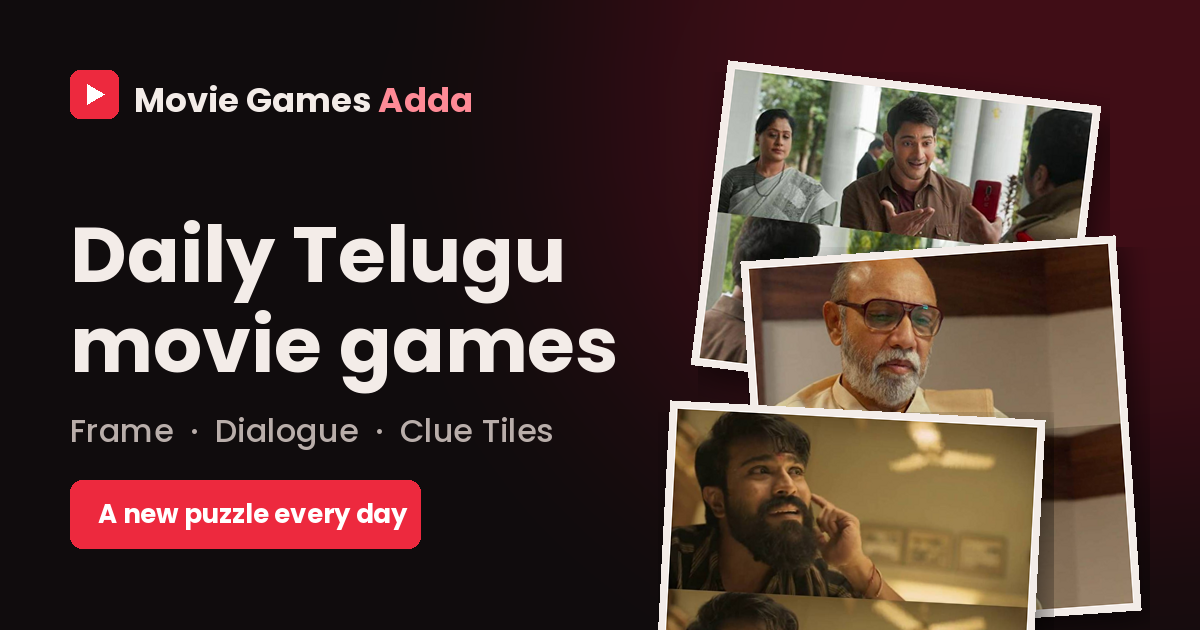
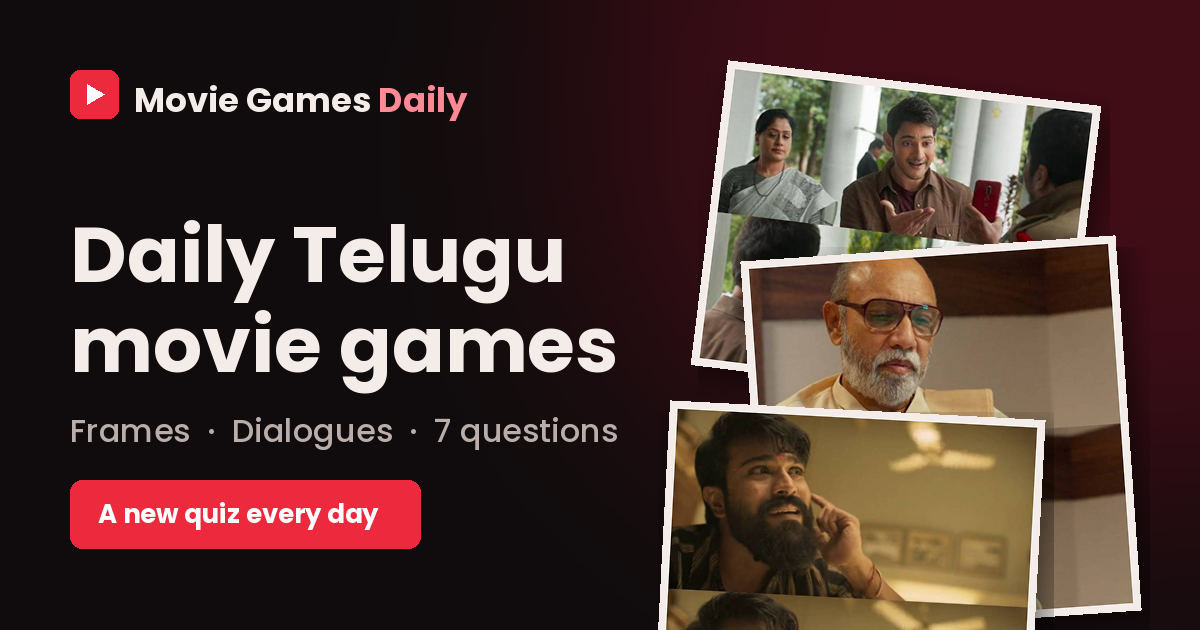
Rename the site to Movie Games Daily
Brand, titles, meta tags, share text, info pages and the social preview
image now say Movie Games Daily.

Claude-Session: https://claude.ai/code/session_01NDAnUyuq5Up1JZs5fnv8MC

Changed region(s): [[0.1233, 0.6635, 0.5242, 0.7238], [0.1542, 0.7841, 0.3392, 0.8444], [0.3083, 0.1206, 0.4008, 0.181]]

diff --git a/site.js b/site.js
@@ -6,7 +6,7 @@ import { fileURLToPath } from 'node:url';
 import { istDate } from './daily.js';
 
 const root = dirname(fileURLToPath(import.meta.url));
-const SITE = 'Movie Games Adda';
+const SITE = 'Movie Games Daily';
 const INSTAGRAM = 'https://www.instagram.com/vamshicreatess';
 const CREDIT = 'https://vamshicreates.tech';
 
@@ -57,7 +57,7 @@ export const header = (current = '') => `<a class="skip" href="#main">Skip to co
     <div class="shell header-inner">
       <a class="brand" href="/" aria-label="${SITE} home">
         <img src="/logo.svg" width="35" height="35" alt="">
-        <span>Movie Games<span class="brand-accent"> Adda</span></span>
+        <span>Movie Games<span class="brand-accent"> Daily</span></span>
       </a>
       <nav aria-label="Main navigation">
         <a href="/play" class="nav-link daily-link"${current === 'play' ? ' aria-current="page"' : ''}>Daily</a>
@@ -69,7 +69,7 @@ export const header = (current = '') => `<a class="skip" href="#main">Skip to co
 
 export const footer = () => `<footer class="shell site-footer site-footer-wide">
     <div class="footer-top">
-      <a class="brand footer-brand" href="/"><img src="/logo.svg" width="26" height="26" alt=""><span>Movie Games<span class="brand-accent"> Adda</span></span></a>
+      <a class="brand footer-brand" href="/"><img src="/logo.svg" width="26" height="26" alt=""><span>Movie Games<span class="brand-accent"> Daily</span></span></a>
       <a class="social" href="${INSTAGRAM}" target="_blank" rel="noopener me">Instagram @vamshicreatess</a>
     </div>
     <nav class="footer-links" aria-label="Footer">
@@ -95,7 +95,7 @@ ${body}
 
 // ----- the information pages -----
 const faq = [
-  ['What is Movie Games Adda?', 'A free Telugu movie quiz site. Besides the level-based games on the home page, it has one daily quiz that everyone plays at the same time: seven questions, alternating a film frame and a dialogue.'],
+  ['What is Movie Games Daily?', 'A free Telugu movie quiz site. Besides the level-based games on the home page, it has one daily quiz that everyone plays at the same time: seven questions, alternating a film frame and a dialogue.'],
   ['When does the daily quiz change?', 'At midnight India time (IST). Every player gets the same seven films on the same day, so you can compare scores with friends.'],
   ['How many guesses do I get?', 'Three on every question. After a wrong guess you get another frame, another line or a hint such as the genre or the initials of the hero. You can also skip a question, which uses a guess.'],
   ['Can I type the movie name in Telugu?', 'Yes. Type in English or in Telugu script, or pick a film from the suggestions. Use the language switch to show film names in English or Telugu. Common spelling variations such as “Bahubali” or “Aravinda Sametha” are accepted.'],
@@ -125,7 +125,7 @@ ${faq.map(([q, a]) => `<h3>${esc(q)}</h3>\n<p>${esc(a)}</p>`).join('\n')}
     ld: o => ({ '@context': 'https://schema.org', '@type': 'FAQPage', mainEntity: faq.map(([q, a]) => ({ '@type': 'Question', name: q, acceptedAnswer: { '@type': 'Answer', text: a } })) }),
   },
   '/privacy': {
-    title: 'Privacy Policy', desc: 'What Movie Games Adda stores: your results stay in your browser, there are no accounts, no ads and no tracking scripts.',
+    title: 'Privacy Policy', desc: 'What Movie Games Daily stores: your results stay in your browser, there are no accounts, no ads and no tracking scripts.',
     body: `<h1>Privacy</h1>
 <p class="lede">Short version: no accounts, no ads, no tracking scripts. Your results stay in your browser.</p>
 <h2>What stays on your device</h2>
@@ -141,13 +141,13 @@ ${faq.map(([q, a]) => `<h3>${esc(q)}</h3>\n<p>${esc(a)}</p>`).join('\n')}
 <p>If this policy changes we will note it on the <a href="/updates">updates page</a>. Questions? See <a href="/contact">Contact</a>.</p>`,
   },
   '/terms': {
-    title: 'Terms of Use', desc: 'The rules for using Movie Games Adda, a free fan-made Telugu movie quiz: personal use, no scraping, and how film material is treated.',
+    title: 'Terms of Use', desc: 'The rules for using Movie Games Daily, a free fan-made Telugu movie quiz: personal use, no scraping, and how film material is treated.',
     body: `<h1>Terms of use</h1>
-<p class="lede">Movie Games Adda is a free, fan-made quiz. By using it you agree to the points below.</p>
+<p class="lede">Movie Games Daily is a free, fan-made quiz. By using it you agree to the points below.</p>
 <h2>Use of the site</h2>
 <p>Play for fun and for your own personal use. Please do not scrape the site, automate guesses, or try to extract the answers, and do not attempt to disrupt the service. We may change or remove games at any time.</p>
 <h2>Film material</h2>
-<p>Movie names, stills and dialogue belong to their respective owners. They appear here only as small clues in a quiz, for commentary and entertainment. Movie Games Adda is not affiliated with, endorsed by, or sponsored by any film, studio or artist mentioned. If you own material and want it removed, see <a href="/credits">Credits and takedown</a>.</p>
+<p>Movie names, stills and dialogue belong to their respective owners. They appear here only as small clues in a quiz, for commentary and entertainment. Movie Games Daily is not affiliated with, endorsed by, or sponsored by any film, studio or artist mentioned. If you own material and want it removed, see <a href="/credits">Credits and takedown</a>.</p>
 <h2>No guarantees</h2>
 <p>The games are provided as they are. We take care with film details but they can contain mistakes, and we do not promise the site will always be available. Use of the site is at your own risk.</p>
 <h2>Your suggestions</h2>
@@ -156,7 +156,7 @@ ${faq.map(([q, a]) => `<h3>${esc(q)}</h3>\n<p>${esc(a)}</p>`).join('\n')}
 <p>We may update these terms. Continued use means you accept the updated version. Changes are noted on the <a href="/updates">updates page</a>.</p>`,
   },
   '/contact': {
-    title: 'Contact', desc: 'Get in touch with Movie Games Adda: message on Instagram, suggest a missing film, report a mistake or send a takedown request.',
+    title: 'Contact', desc: 'Get in touch with Movie Games Daily: message on Instagram, suggest a missing film, report a mistake or send a takedown request.',
     body: `<h1>Contact</h1>
 <p class="lede">The quickest way to reach us is Instagram.</p>
 <p><a class="btn primary" href="${INSTAGRAM}" target="_blank" rel="noopener me">Message @vamshicreatess</a></p>
@@ -170,9 +170,13 @@ ${faq.map(([q, a]) => `<h3>${esc(q)}</h3>\n<p>${esc(a)}</p>`).join('\n')}
 <p>Built by <a href="${CREDIT}" target="_blank" rel="noopener">Vamshi Creates</a>.</p>`,
   },
   '/updates': {
-    title: 'Updates and Changelog', desc: 'What is new on Movie Games Adda: the daily Telugu movie games, streaks, sharing, the archive and more.',
+    title: 'Updates and Changelog', desc: 'What is new on Movie Games Daily: the daily Telugu movie games, streaks, sharing, the archive and more.',
     body: `<h1>Updates</h1>
-<p class="lede">What is new on Movie Games Adda.</p>
+<p class="lede">What is new on Movie Games Daily.</p>
+<h2>24 November 2026: New name</h2>
+<ul>
+<li>Movie Games Adda is now Movie Games Daily, and the daily quiz is seven questions long.</li>
+</ul>
 <h2>15 November 2026: Daily Telugu movie quiz</h2>
 <ul>
 <li>One daily quiz of seven questions, alternating a film frame and a dialogue, with new films every day at midnight IST.</li>
@@ -187,7 +191,7 @@ ${faq.map(([q, a]) => `<h3>${esc(q)}</h3>\n<p>${esc(a)}</p>`).join('\n')}
 </ul>`,
   },
   '/credits': {
-    title: 'Credits and Takedown', desc: 'Who built Movie Games Adda, where film details come from, and how to request removal of any material.',
+    title: 'Credits and Takedown', desc: 'Who built Movie Games Daily, where film details come from, and how to request removal of any material.',
     body: `<h1>Credits and takedown</h1>
 <p class="lede">A fan-made quiz, built with love for Telugu cinema.</p>
 <h2>Built by</h2>

diff --git a/public/index.html b/public/index.html
@@ -3,23 +3,23 @@
 <head>
   <meta charset="utf-8">
   <meta name="viewport" content="width=device-width, initial-scale=1">
-  <meta name="description" content="Play Movie Games Adda: daily Telugu movie games plus Tollywood quizzes. Name actors from a blurred photo, films from frames and songs from five seconds of audio.">
+  <meta name="description" content="Play Movie Games Daily: daily Telugu movie games plus Tollywood quizzes. Name actors from a blurred photo, films from frames and songs from five seconds of audio.">
   <meta name="robots" content="%%ROBOTS%%">
   <meta name="theme-color" content="#0b0a0b">
   <link rel="canonical" href="%%URL%%">
   <meta property="og:type" content="website">
-  <meta property="og:site_name" content="Movie Games Adda">
-  <meta property="og:title" content="Movie Games Adda | Daily Telugu movie games and Tollywood quizzes">
+  <meta property="og:site_name" content="Movie Games Daily">
+  <meta property="og:title" content="Movie Games Daily | Daily Telugu movie games and Tollywood quizzes">
   <meta property="og:description" content="A new Telugu movie quiz every day: seven questions, guess the film from a frame or a dialogue. Plus actor, actress, frame and song quizzes.">
   <meta property="og:url" content="%%URL%%">
   <meta property="og:image" content="%%ORIGIN%%/og.png">
   <meta property="og:image:width" content="1200">
   <meta property="og:image:height" content="630">
   <meta name="twitter:card" content="summary_large_image">
-  <meta name="twitter:title" content="Movie Games Adda | Daily Telugu movie games and Tollywood quizzes">
+  <meta name="twitter:title" content="Movie Games Daily | Daily Telugu movie games and Tollywood quizzes">
   <meta name="twitter:description" content="A new Telugu movie quiz every day: seven questions, guess the film from a frame or a dialogue.">
   <meta name="twitter:image" content="%%ORIGIN%%/og.png">
-  <title>Movie Games Adda | Daily Telugu movie games</title>
+  <title>Movie Games Daily | Daily Telugu movie games</title>
   <link rel="icon" href="/logo.svg" type="image/svg+xml">
   <link rel="stylesheet" href="/style.css">
   <link rel="stylesheet" href="/daily.css">
@@ -29,9 +29,9 @@
   <a class="skip" href="#main">Skip to content</a>
   <header class="site-header">
     <div class="shell header-inner">
-      <a class="brand" href="/" aria-label="Movie Games Adda home">
+      <a class="brand" href="/" aria-label="Movie Games Daily home">
         <img src="/logo.svg" width="35" height="35" alt="">
-        <span>Movie Games<span class="brand-accent"> Adda</span></span>
+        <span>Movie Games<span class="brand-accent"> Daily</span></span>
       </a>
       <nav aria-label="Main navigation">
         <a href="/play" class="nav-link daily-link">Daily</a>
@@ -41,10 +41,10 @@
       </nav>
     </div>
   </header>
-  <main id="main" tabindex="-1"><div class="shell loading" role="status">Loading Movie Games Adda…</div></main>
+  <main id="main" tabindex="-1"><div class="shell loading" role="status">Loading Movie Games Daily…</div></main>
   <footer class="shell site-footer site-footer-wide">
     <div class="footer-top">
-      <a class="brand footer-brand" href="/"><img src="/logo.svg" width="26" height="26" alt=""><span>Movie Games<span class="brand-accent"> Adda</span></span></a>
+      <a class="brand footer-brand" href="/"><img src="/logo.svg" width="26" height="26" alt=""><span>Movie Games<span class="brand-accent"> Daily</span></span></a>
       <a class="social" href="https://www.instagram.com/vamshicreatess" target="_blank" rel="noopener me">Instagram @vamshicreatess</a>
     </div>
     <nav class="footer-links" aria-label="Footer">

diff --git a/public/app.js b/public/app.js
@@ -99,7 +99,7 @@ function showLevels(data, industryId, modeId) {
   const mode = modes[modeId];
   const levels = data.levels.filter(item => item.industry === industryId && item.mode === modeId);
   const done = levels.filter(item => item.state === 'done').length;
-  document.title = `${mode.name} | Movie Games Adda`;
+  document.title = `${mode.name} | Movie Games Daily`;
   main.innerHTML = `<div class="shell play-shell"><a href="${lobbyURL(industryId)}" class="back-link">${icon('back', 18)} All games</a>
     <section class="panel levels">
       <p class="subtle">${esc(mode.name)}</p>
@@ -182,7 +182,7 @@ function home(data) {
     </article>`;
   }).join('');
   const soonItems = soonModes.map(([id, mode]) => `<article class="soon-item">${icon(id, 20)}<h4>${esc(mode.name)}</h4><p>${esc(mode.desc)}</p></article>`).join('');
-  document.title = 'Movie Games Adda | Daily Telugu movie games';
+  document.title = 'Movie Games Daily | Daily Telugu movie games';
   main.innerHTML = `<div class="shell home">
     <section class="hero" aria-labelledby="hero-title">
       <div class="hero-copy">
@@ -236,7 +236,7 @@ function showRound(round) {
   const seconds = mode.seconds ?? photoSeconds;
   clearInterval(revealTimer);
   const back = lobbyURL(round.industry);
-  document.title = `${mode.name} | Movie Games Adda`;
+  document.title = `${mode.name} | Movie Games Daily`;
   if (round.complete) {
     main.innerHTML = `<div class="shell play-shell"><a href="${back}" class="back-link">${icon('back', 18)} All games</a>
       <section class="results panel">
@@ -440,7 +440,7 @@ function showRound(round) {
 }
 
 async function admin(message = '') {
-  document.title = 'Admin | Movie Games Adda';
+  document.title = 'Admin | Movie Games Daily';
   let library;
   try { library = await api('/admin/library'); }
   catch (error) {

diff --git a/server.js b/server.js
@@ -497,7 +497,7 @@ export function buildServer({ dbPath = ':memory:', adminPassword, seed = true, e
     try {
       const path = decodeURIComponent(new URL(req.url, 'http://localhost').pathname);
       if (path.startsWith('/api/')) {
-        need(req.headers['sec-fetch-site'] !== 'cross-site', 403, 'Open this action from Movie Games Adda.');
+        need(req.headers['sec-fetch-site'] !== 'cross-site', 403, 'Open this action from Movie Games Daily.');
         return await api(req, res, path);
       }
       need(req.method === 'GET' || req.method === 'HEAD', 405, 'This action is not available.');
@@ -544,7 +544,7 @@ if (process.argv[1] && resolve(process.argv[1]) === fileURLToPath(import.meta.ur
   const adminPassword = configuredPassword ?? randomBytes(12).toString('base64url');
   const dbPath = resolve(process.env.DATA_DIR ?? resolve(root, 'data'), 'adda.sqlite');
   buildServer({ dbPath, adminPassword }).listen(port, host, () => {
-    console.log(`Movie Games Adda is running at http://${host}:${port}`);
+    console.log(`Movie Games Daily is running at http://${host}:${port}`);
     if (!configuredPassword) console.log(`Local admin password: ${adminPassword}`);
   });
 }

diff --git a/public/daily-store.js b/public/daily-store.js
@@ -72,7 +72,7 @@ export function shareGrid(record) {
   const row = items => items.map(item => squares[grade(item)]).join('');
   return `${row(record.items.slice(0, 4))}\n${row(record.items.slice(4))}`;
 }
-export const shareText = (n, record, link) => `🎬 Movie Games Adda · Daily #${n} ${score(record)}\n${shareGrid(record)}\n${link}`;
+export const shareText = (n, record, link) => `🎬 Movie Games Daily #${n} ${score(record)}\n${shareGrid(record)}\n${link}`;
 export const challengeLink = (origin, n, record) => `${origin}/play/${n}?s=${scoreOf(record)}`;
 export const challengeText = (n, record, link) => `🎬 I scored ${score(record)} on Daily Telugu movie quiz #${n}. Can you beat me?\n${link}`;
 // "?s=7" from a friend's link, only valid between 0 and the number of questions.

diff --git a/test/daily.test.js b/test/daily.test.js
@@ -223,7 +223,7 @@ test('share text hides the answers and challenge links carry the score', () => {
   assert.equal(S.score(record), '4/7');
   assert.equal(S.shareGrid(record), '🟩🟨🟥🟩\n🟩🟥🟥');
   const text = S.shareText(31, record, 'https://x.test/play');
-  assert.match(text, /Daily #31 4\/7/);
+  assert.match(text, /Movie Games Daily #31 4\/7/);
   assert.equal(S.challengeLink('https://x.test', 31, record), 'https://x.test/play/31?s=4');
   assert.equal(S.friendScore('?s=4'), 4);
   assert.equal(S.friendScore('?s=0'), 0);

diff --git a/daily.js b/daily.js
@@ -1,4 +1,4 @@
-// Daily puzzles for Movie Games Adda.
+// Daily puzzles for Movie Games Daily.
 // Stateless on purpose: the puzzle for a day is a pure function of the IST date, so every visitor gets the
 // same film and nothing has to live on the server (the Vercel deploy re-seeds its database on every cold start).
 import { createHash, createHmac } from 'node:crypto';

diff --git a/public/style.css b/public/style.css
@@ -1,4 +1,4 @@
-/* Movie Games Adda
+/* Movie Games Daily
    Concept: every question is a frame the projector pulls into focus.
    World: a single-screen cinema hall. Warm black, one red from the clapperboard, ticket stubs for levels. */
 

diff --git a/tools/make-og.py b/tools/make-og.py
@@ -29,11 +29,11 @@ d = ImageDraw.Draw(img)
 d.rounded_rectangle((70, 70, 118, 118), 10, fill=RED)
 d.polygon([(87, 84), (87, 104), (104, 94)], fill=(255, 255, 255))
 d.text((134, 76), 'Movie Games', font=font(34), fill=TEXT)
-d.text((134 + d.textlength('Movie Games ', font=font(34)), 76), 'Adda', font=font(34), fill=(255, 138, 150))
+d.text((134 + d.textlength('Movie Games ', font=font(34)), 76), 'Daily', font=font(34), fill=(255, 138, 150))
 d.text((70, 200), 'Daily Telugu', font=font(78), fill=TEXT)
 d.text((70, 290), 'movie games', font=font(78), fill=TEXT)
-d.text((70, 408), 'Frame  ·  Dialogue  ·  Clue Tiles', font=font(32, False), fill=MUTED)
+d.text((70, 408), 'Frames  ·  Dialogues  ·  7 questions', font=font(32, False), fill=MUTED)
 d.rounded_rectangle((70, 480, 420, 548), 12, fill=RED)
-d.text((98, 495), 'A new puzzle every day', font=font(26), fill=(255, 255, 255))
+d.text((98, 495), 'A new quiz every day', font=font(26), fill=(255, 255, 255))
 img.save('public/og.png', optimize=True)
 print('public/og.png', img.size)

diff --git a/README.md b/README.md
@@ -1,4 +1,4 @@
-# Movie Games Adda
+# Movie Games Daily
 
 A black-and-red film quiz for phones and laptops. The Tollywood launch has one ten-question set each for Frames, Lyrics, Emojis, Badly Explained Plot, and Guess the Meme as coming soon, plus live Guess the Actor, Guess the Actress, Guess the Movie (one film frame, typed answer) and Guess the Song games with ten-question levels. Players choose multiple choice or typed answers when starting a round.
 
